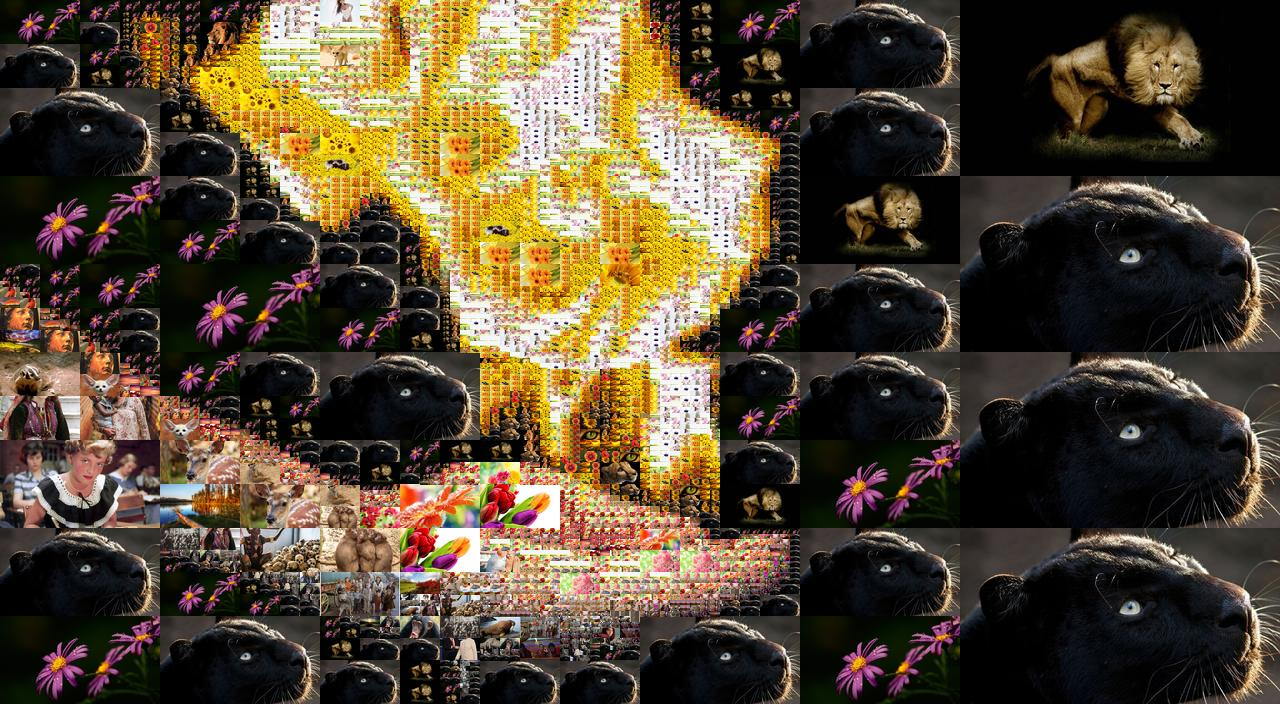
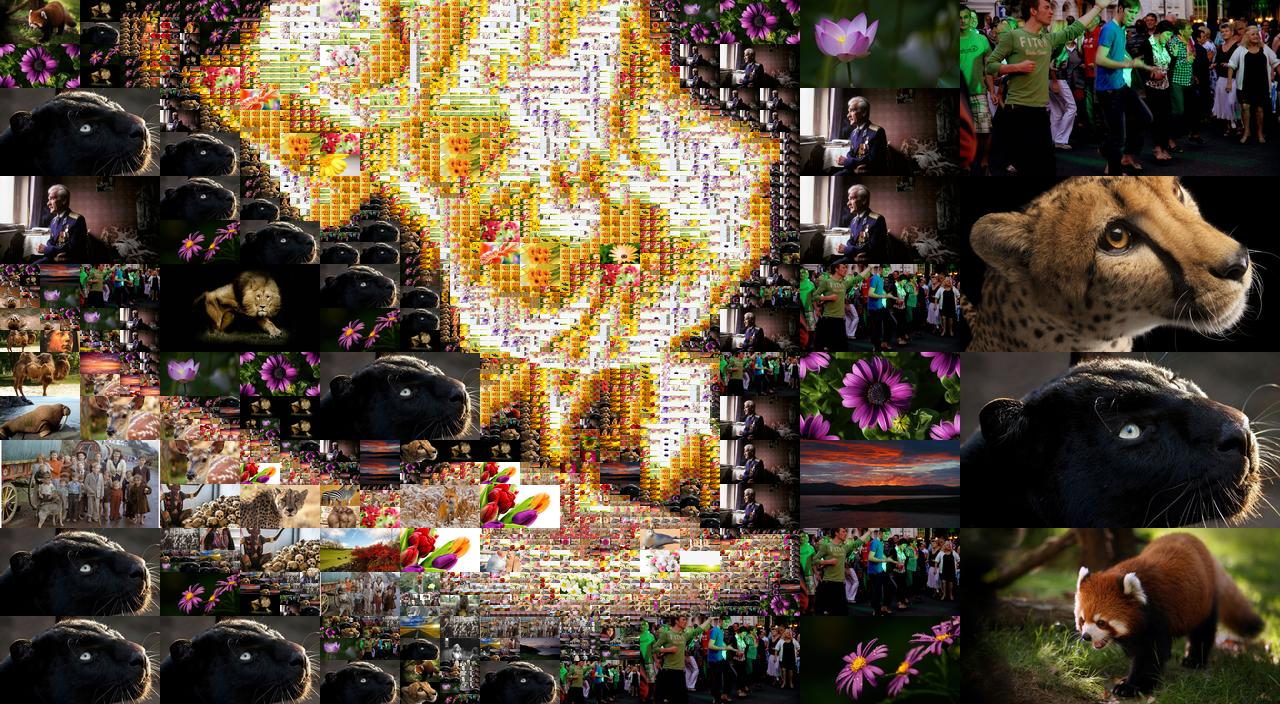
checking 10 wavelets rather than 3

diff --git a/mosaic.py b/mosaic.py
@@ -128,7 +128,7 @@ def closest_tile(tile_rgb_averages, block_rgb_average, vary_tiles):
   if vary_tiles:
     return sorted_rgb_values[randint(0, 1)]
   else:
-    return sorted_rgb_values[:3] #returns 3 closest rgb matches
+    return sorted_rgb_values[:10] #returns 3 closest rgb matches
 
 ##################
 #fills the tile library (dictionary) with the images from the library database 
